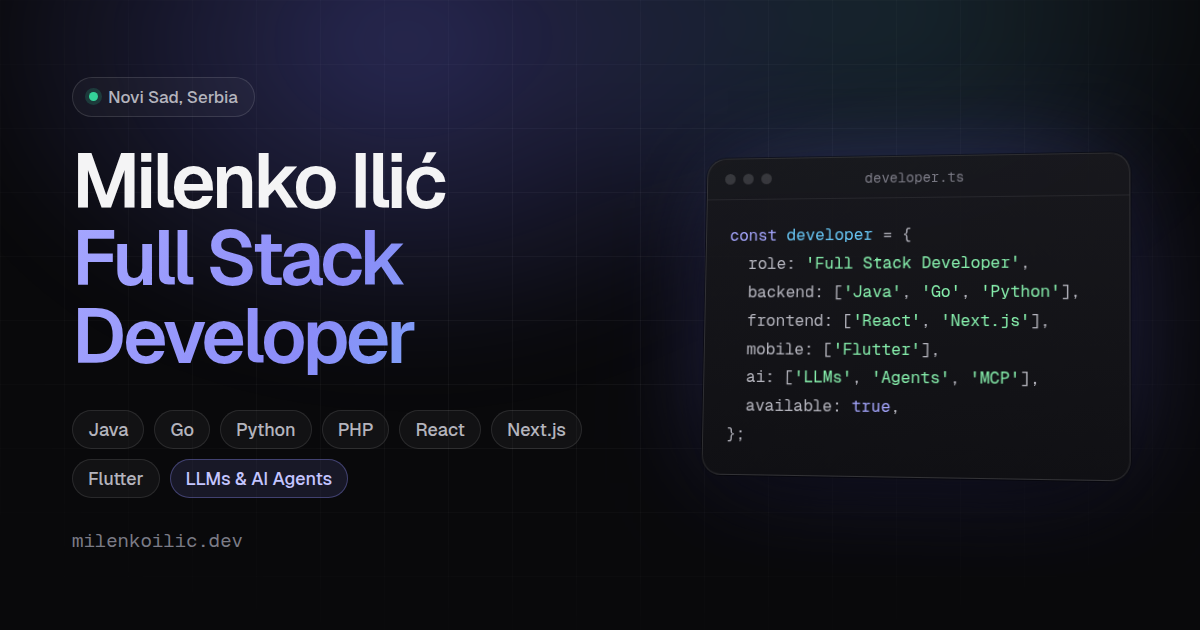
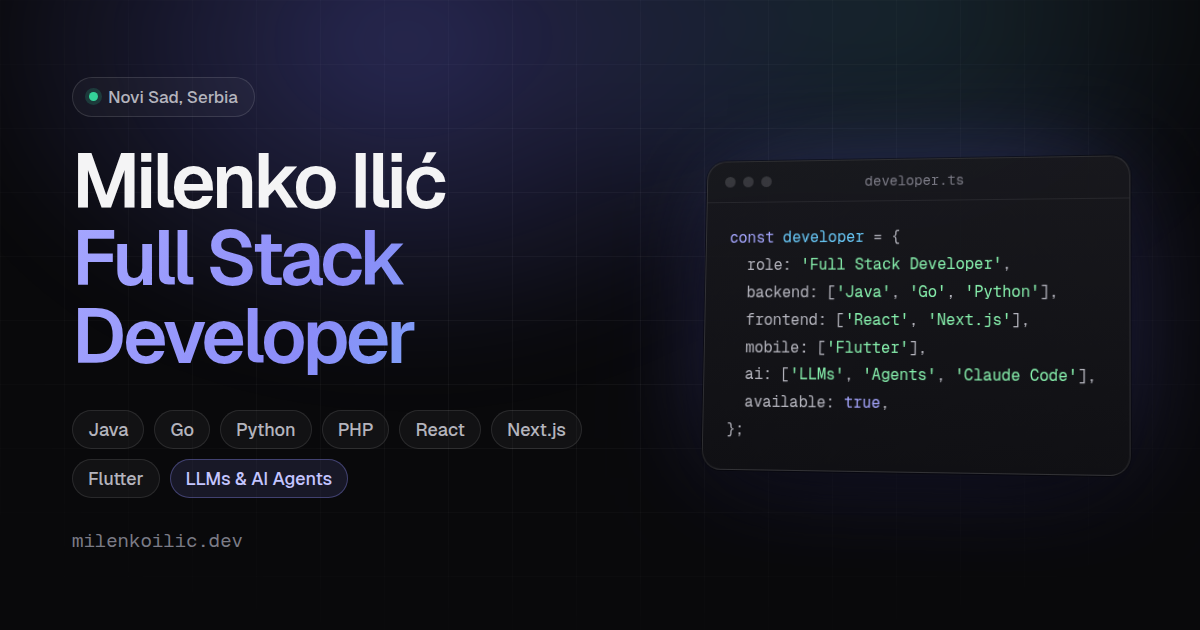
Describe AI work as using LLM tools rather than building MCP and RAG
- About bio (en, sr) says AI-assisted tools and agents are used in
  day-to-day development instead of building MCP servers and RAG
  pipelines
- AI & LLMs skills drop MCP and RAG, add AI-Assisted Development
- Hero code card and OG image list Claude Code instead of MCP

Changed region(s): [[0.5858, 0.3619, 0.8942, 0.6635], [0.7092, 0.2714, 0.8017, 0.3016], [0.6167, 0.2714, 0.6475, 0.3016]]

diff --git a/app/components/hero/hero.tsx b/app/components/hero/hero.tsx
@@ -63,7 +63,7 @@ const Hero = () => {
 {'    '}<span className={styles.tkString}>&apos;React&apos;</span>, <span className={styles.tkString}>&apos;Next.js&apos;</span>, <span className={styles.tkString}>&apos;Flutter&apos;</span>,{'\n'}
 {'    '}<span className={styles.tkString}>&apos;Java&apos;</span>, <span className={styles.tkString}>&apos;Go&apos;</span>, <span className={styles.tkString}>&apos;Laravel&apos;</span>,{'\n'}
 {'  '}],{'\n'}
-{'  '}ai: [<span className={styles.tkString}>&apos;LLMs&apos;</span>, <span className={styles.tkString}>&apos;Agents&apos;</span>, <span className={styles.tkString}>&apos;MCP&apos;</span>],{'\n'}
+{'  '}ai: [<span className={styles.tkString}>&apos;LLMs&apos;</span>, <span className={styles.tkString}>&apos;Agents&apos;</span>, <span className={styles.tkString}>&apos;Claude Code&apos;</span>],{'\n'}
 {'  '}available: <span className={styles.tkKeyword}>true</span>,{'\n'}
 {'}'};
                         </pre>

diff --git a/app/components/about/about.tsx b/app/components/about/about.tsx
@@ -103,8 +103,8 @@ const About = () => {
                             <h4>{t('skillCategories.ai')}</h4>
                         </div>
                         <div className={style.skillTags}>
-                            <span>LLMs</span><span>AI Agents</span><span>MCP</span>
-                            <span>RAG</span><span>Prompt Engineering</span><span>Claude Code</span>
+                            <span>LLMs</span><span>AI Agents</span><span>AI-Assisted Development</span>
+                            <span>Prompt Engineering</span><span>Claude Code</span>
                         </div>
                         </div>
 
